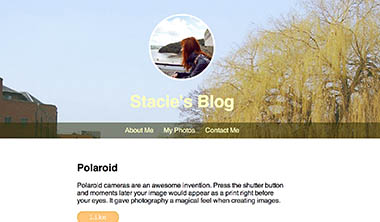
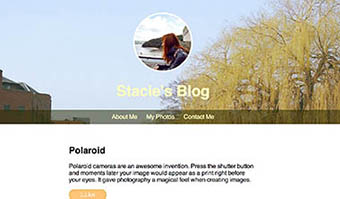
Picture change
Size changed.

diff --git a/css/style.css b/css/style.css
@@ -51,7 +51,7 @@ p {
 }
 
 .wrapper {
-	max-width: 780px;
+	max-width: 740px;
 	min-height: 100%;
 	padding: 0 5%;
 	margin: 20px auto;
